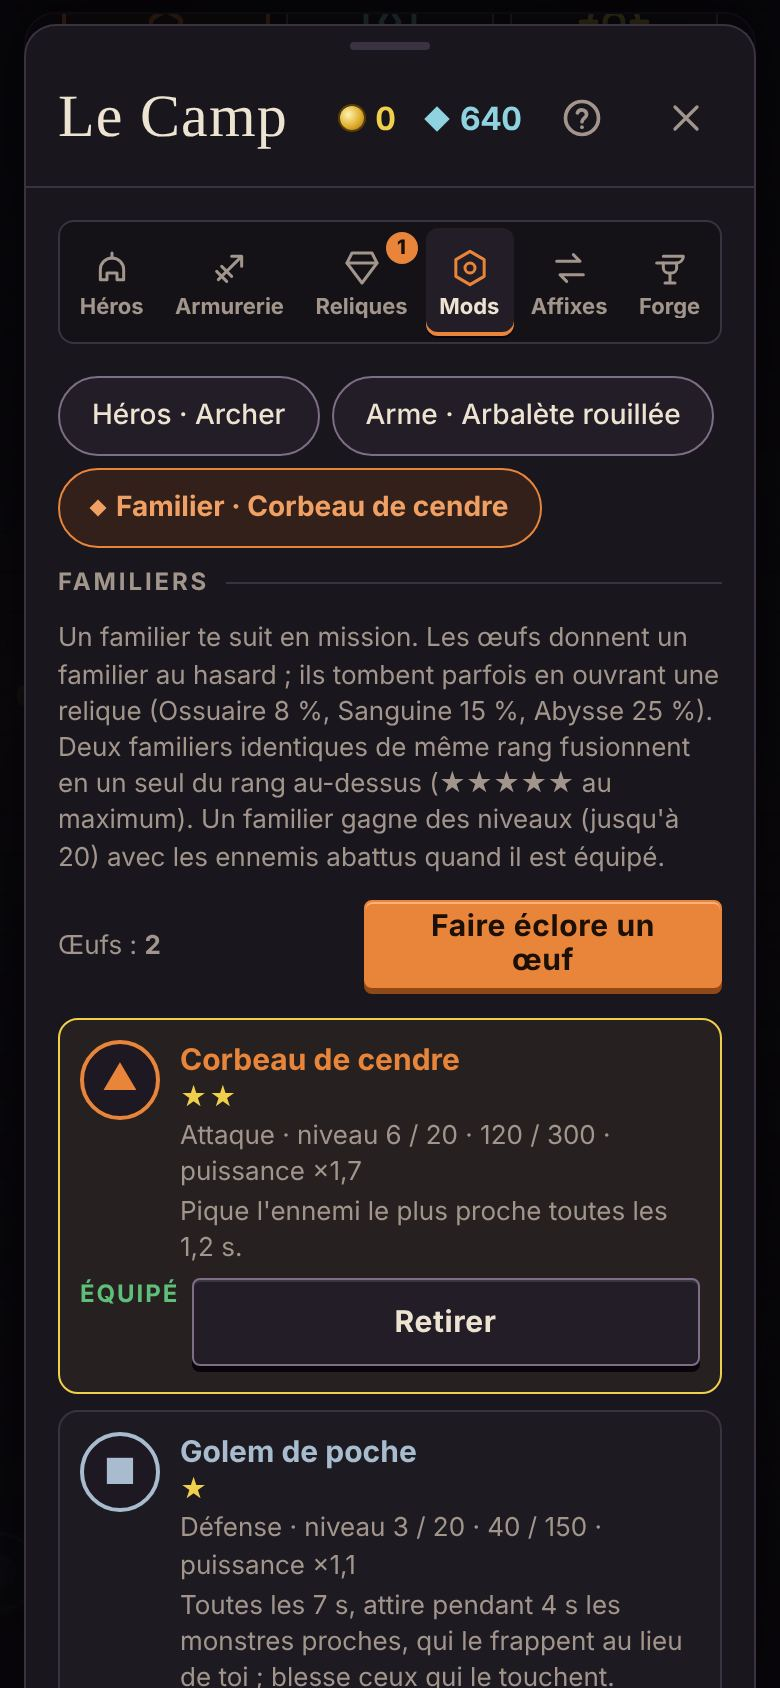
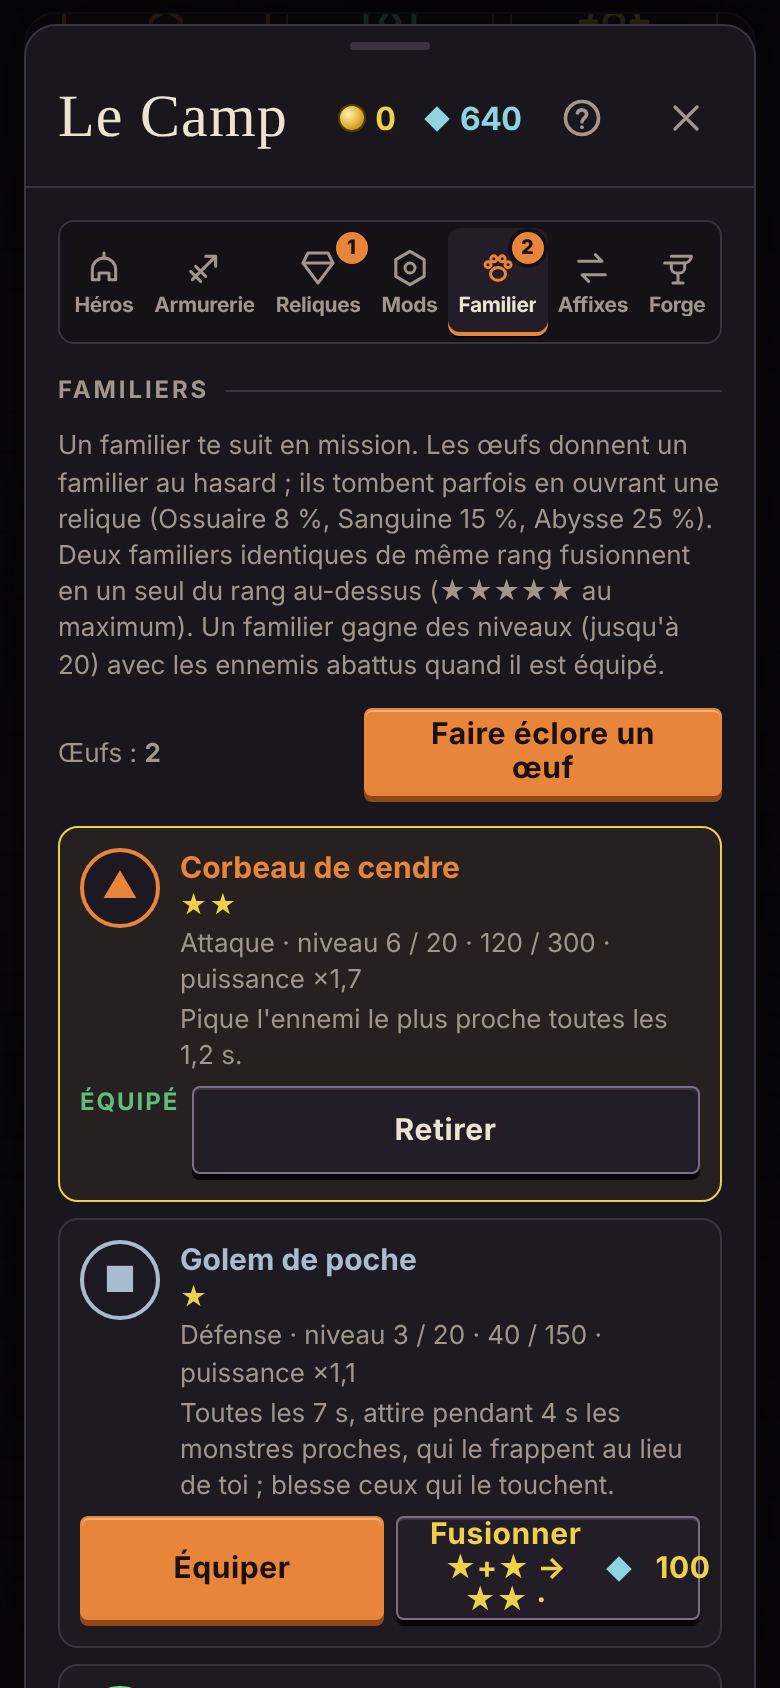
v77 : onglet Familier dédié au Camp

diff --git a/aide/index.html b/aide/index.html
@@ -334,7 +334,7 @@ details.more .tbl{margin:0 14px 14px}
 <section id="camp-equip"><div class="sec">
   <div class="txt">
     <h2><small>Camp · onglet 1</small>Héros et coffre</h2>
-    <p>Le Camp regroupe toute la progression permanente en six onglets. Une pastille orange sur un onglet signale qu'il y a quelque chose à faire. Le bouton <b>?</b> en haut du Camp ouvre ce guide à la bonne section.</p>
+    <p>Le Camp regroupe toute la progression permanente en sept onglets. Une pastille orange sur un onglet signale qu'il y a quelque chose à faire. Le bouton <b>?</b> en haut du Camp ouvre ce guide à la bonne section.</p>
     <p>L'onglet <b>Héros</b> montre tes 5 emplacements, tes statistiques et ton <b>coffre</b> (filtrable par type, triable par rareté, amélioration, niveau ou date). Touche un objet pour voir sa fiche et le comparer.</p>
     <ul>
       <li><b>Équiper le meilleur</b> remplit chaque emplacement avec l'objet le plus fort du coffre.</li>
@@ -401,7 +401,7 @@ details.more .tbl{margin:0 14px 14px}
       <li>Au Camp, équipe une ou plusieurs reliques, dans l'ordre d'ouverture voulu. Pour aller vite, choisis un type au-dessus de ta collection (Cendre, Ossuaire, Sanguine, Abysse, Givre ou Forgées) puis touche <b>Tout équiper</b> : toutes celles de ce type rejoignent la file. <b>Retirer</b> les enlève de la file.</li>
       <li>En mission, une partie des ennemis sont <b>corrompus</b> (halo doré) et lâchent un réactif.</li>
       <li><b>10 réactifs</b> ouvrent la relique en cours, puis on passe à la suivante.</li>
-      <li>Réussis la mission : chaque relique ouverte donne sa récompense et 25 essence. En cas d'échec, rien n'est consommé.</li>
+      <li>Réussis la mission : chaque relique ouverte donne sa récompense et 25 essence, et parfois un <a href="#familiers">œuf de familier</a> en plus (Ossuaire 8 %, Sanguine 15 %, Abysse 25 %). En cas d'échec, rien n'est consommé.</li>
     </ol>
     <h3>Intacte ou éclatante</h3>
     <p>Le <b>raffinage</b> (50 essence) rend une relique éclatante : les récompenses rares deviennent bien plus probables.</p>
@@ -436,7 +436,7 @@ details.more .tbl{margin:0 14px 14px}
 <section id="camp-mods"><div class="sec">
   <div class="txt">
     <h2><small>Camp · onglet 4</small>Mods</h2>
-    <p>Les mods sont des cartes de bonus permanentes, trouvées sur les monstres. Ils se placent dans trois builds : arme, héros et <a href="#familiers">familier</a>.</p>
+    <p>Les mods sont des cartes de bonus permanentes, trouvées sur les monstres. Ils se placent dans deux builds (les mods de familier ont leur propre onglet, <a href="#familiers">Familier</a>) :</p>
     <ul>
       <li><b>Build d'arme</b> : 4 cases, propre à chaque arme. Changer d'arme change ses mods.</li>
       <li><b>Build de héros</b> : 3 à 6 cases (les suivantes se débloquent avec des fragments) et une case d'<b>Aura</b>.</li>
@@ -467,7 +467,7 @@ details.more .tbl{margin:0 14px 14px}
 
 <section id="familiers"><div class="sec">
   <div class="txt">
-    <h2><small>Camp · Mods › Familier</small>Familiers</h2>
+    <h2><small>Camp · onglet 5</small>Familier</h2>
     <p>Un familier te suit en mission et agit seul. Tu en équipes un à la fois, pour tous tes héros. Ton premier œuf est offert.</p>
     <ul>
       <li><b>Œufs</b> : ouvrir une relique en mission peut en contenir un (Ossuaire 8 %, Sanguine 15 %, Abysse 25 %). L'éclosion donne un familier <b>au hasard</b>, au rang ★.</li>
@@ -482,7 +482,7 @@ details.more .tbl{margin:0 14px 14px}
       <tr><td><b style="color:#f0cf4a">Furet pilleur</b></td><td>Butin</td><td>Augmente la portée de ramassage et donne +5 % de chances d'objet.</td></tr>
     </tbody></table></div>
     <h3>Mods de familier</h3>
-    <p>L'onglet Mods a un troisième build, <b>Familier</b> : 3 cases (4 dès ★★★), une capacité de 10 au rang ★ et +2 par rang au-dessus, plus la moitié de son niveau. Ces mods tombent sur les monstres comme les autres. Les polarités et l'alignement marchent pareil, sans maîtrise à perdre. Un mod réservé à un familier précis reste grisé avec un autre.</p>
+    <p>Sous la collection, l'onglet a son propre build de mods : 3 cases (4 dès ★★★), une capacité de 10 au rang ★ et +2 par rang au-dessus, plus la moitié de son niveau. Ces mods tombent sur les monstres comme les autres. Les polarités et l'alignement marchent pareil, sans maîtrise à perdre. Un mod réservé à un familier précis reste grisé avec un autre.</p>
     <details class="more"><summary>Les 14 mods de familier</summary><div class="tbl"><table><thead><tr><th>Mod</th><th>Familier</th><th>Effet</th><th>Rangs</th></tr></thead><tbody><tr><td><b>Crocs</b></td><td>Tous</td><td>+15 % de dégâts du familier par rang</td><td class="n">5</td></tr><tr><td><b>Vivacité</b></td><td>Tous</td><td>+10 % de vitesse d'action par rang</td><td class="n">5</td></tr><tr><td><b>Carapace</b></td><td>Tous</td><td>+15 % d'efficacité défensive (golem : durée d'attirance)</td><td class="n">3</td></tr><tr><td><b>Lien</b></td><td>Tous</td><td>+12 % de portée et de vitesse de déplacement</td><td class="n">3</td></tr><tr><td><b>Bec acéré</b></td><td>Corbeau</td><td>+8 % de chances de critique par rang</td><td class="n">3</td></tr><tr><td><b>Nuée</b></td><td>Corbeau</td><td>Frappe 1 cible de plus</td><td class="n">1</td></tr><tr><td><b>Lumière apaisante</b></td><td>Feu follet</td><td>+20 % de soin par rang</td><td class="n">5</td></tr><tr><td><b>Purification</b></td><td>Feu follet</td><td>Retire poison, brûlure et gelure toutes les 6 s</td><td class="n">1</td></tr><tr><td><b>Provocation</b></td><td>Golem</td><td>+20 % de rayon d'attirance par rang</td><td class="n">3</td></tr><tr><td><b>Épines</b></td><td>Golem</td><td>+25 % de dégâts renvoyés par rang</td><td class="n">3</td></tr><tr><td><b>Flair du furet</b></td><td>Furet</td><td>+3 % de chances d'objet par rang</td><td class="n">3</td></tr><tr><td><b>Poches profondes</b></td><td>Furet</td><td>Va chercher les objets, mods et reliques au sol</td><td class="n">1</td></tr><tr><td><b>Partage de vie</b></td><td>Tous</td><td>Les coups du familier te rendent 2 % de leurs dégâts par rang</td><td class="n">3</td></tr><tr><td><b>Écho élémentaire</b></td><td>Tous</td><td>Les coups du familier appliquent la brûlure et le ralentissement de ton arme</td><td class="n">1</td></tr></tbody></table></div></details>
     <p>En coop, chacun voit les familiers des autres. Un golem attire aussi les monstres qui visaient un partenaire.</p>
   </div>
@@ -494,7 +494,7 @@ details.more .tbl{margin:0 14px 14px}
 
 <section id="camp-affix"><div class="sec">
   <div class="txt">
-    <h2><small>Camp · onglet 5</small>Affixes</h2>
+    <h2><small>Camp · onglet 6</small>Affixes</h2>
     <p>Cet onglet sert à déplacer les meilleures propriétés d'un objet à l'autre.</p>
     <h3>Transfert</h3>
     <ol>
@@ -521,7 +521,7 @@ details.more .tbl{margin:0 14px 14px}
 
 <section id="camp-forge"><div class="sec">
   <div class="txt">
-    <h2><small>Camp · onglet 6</small>Forge et prestige</h2>
+    <h2><small>Camp · onglet 7</small>Forge et prestige</h2>
     <p>La Forge vend des améliorations permanentes avec l'or. Chaque niveau coûte 1,7 fois le précédent.</p>
     <div class="tbl"><table>
       <thead><tr><th>Amélioration</th><th>Effet par niveau</th><th>Niveaux</th></tr></thead>
@@ -639,7 +639,7 @@ details.more .tbl{margin:0 14px 14px}
 
 </main>
 
-<footer class="wrap">Crypte des Cendres · guide à jour de la version 75 du jeu. <a href="../index.html">Retour au jeu</a></footer>
+<footer class="wrap">Crypte des Cendres · guide à jour de la version 77 du jeu. <a href="../index.html">Retour au jeu</a></footer>
 
 <dialog id="zoom" aria-label="Capture agrandie"><button type="button" id="zoomX" aria-label="Fermer">×</button><img id="zoomImg" alt=""></dialog>
 

diff --git a/index.html b/index.html
@@ -155,7 +155,7 @@
     <div class="cx-sheet__grip"></div>
     <header class="cx-sheet__head"><h2 class="cx-sheet__title">Le Camp</h2><div class="cx-sheet__aside"><span class="purse" id="campGold"></span><a class="cx-icon-btn cx-icon-btn--ghost" id="campHelp" href="aide/index.html#camp-equip" target="_blank" rel="noopener" aria-label="Aide sur cet onglet"><svg viewBox="0 0 24 24" style="fill:none;stroke:currentColor;stroke-width:2;stroke-linecap:round;stroke-linejoin:round"><circle cx="12" cy="12" r="9"/><path d="M9.5 9.2a2.6 2.6 0 0 1 5 .9c0 1.7-2.5 2.2-2.5 3.9"/><path d="M12 17h.01"/></svg></a><button class="cx-icon-btn cx-icon-btn--ghost" id="closeCamp" aria-label="Fermer le Camp"><svg viewBox="0 0 24 24"><path d="M6 6l12 12M18 6 6 18"/></svg></button></div></header>
     <div class="cx-sheet__body">
-      <div class="cx-tabs cx-tabs--icons" role="tablist" aria-label="Le Camp"><button class="tab cx-tab" role="tab" data-tab="equip" aria-selected="false"><svg viewBox="0 0 24 24"><path d="M5 13a7 7 0 0 1 14 0v6h-4v-4H9v4H5z"/><path d="M12 6V3"/></svg><span>Héros</span></button><button class="tab cx-tab" role="tab" data-tab="arsenal" aria-selected="false"><svg viewBox="0 0 24 24"><path d="M5 19 19 5M13 5h6v6M7 11l6 6M4 14l6 6"/></svg><span>Armurerie</span></button><button class="tab cx-tab" role="tab" data-tab="relics" aria-selected="false"><svg viewBox="0 0 24 24"><path d="M6 3h12l3 6-9 12L3 9z"/><path d="M3 9h18"/></svg><span>Reliques</span></button><button class="tab cx-tab" role="tab" data-tab="mods" aria-selected="false"><svg viewBox="0 0 24 24"><path d="M12 2l8.5 5v10L12 22l-8.5-5V7z"/><circle cx="12" cy="12" r="3"/></svg><span>Mods</span></button><button class="tab cx-tab" role="tab" data-tab="affix" aria-selected="false"><svg viewBox="0 0 24 24"><path d="M4 8h14l-4-4M20 16H6l4 4"/></svg><span>Affixes</span></button><button class="tab cx-tab" role="tab" data-tab="forge" aria-selected="false"><svg viewBox="0 0 24 24"><path d="M4 9h12a4 4 0 0 0 4-4H8"/><path d="M8 9v3a3 3 0 0 0 3 3h2a3 3 0 0 0 3-3V9M9 21h6M12 15v6"/></svg><span>Forge</span></button></div>
+      <div class="cx-tabs cx-tabs--icons" role="tablist" aria-label="Le Camp"><button class="tab cx-tab" role="tab" data-tab="equip" aria-selected="false"><svg viewBox="0 0 24 24"><path d="M5 13a7 7 0 0 1 14 0v6h-4v-4H9v4H5z"/><path d="M12 6V3"/></svg><span>Héros</span></button><button class="tab cx-tab" role="tab" data-tab="arsenal" aria-selected="false"><svg viewBox="0 0 24 24"><path d="M5 19 19 5M13 5h6v6M7 11l6 6M4 14l6 6"/></svg><span>Armurerie</span></button><button class="tab cx-tab" role="tab" data-tab="relics" aria-selected="false"><svg viewBox="0 0 24 24"><path d="M6 3h12l3 6-9 12L3 9z"/><path d="M3 9h18"/></svg><span>Reliques</span></button><button class="tab cx-tab" role="tab" data-tab="mods" aria-selected="false"><svg viewBox="0 0 24 24"><path d="M12 2l8.5 5v10L12 22l-8.5-5V7z"/><circle cx="12" cy="12" r="3"/></svg><span>Mods</span></button><button class="tab cx-tab" role="tab" data-tab="pets" aria-selected="false"><svg viewBox="0 0 24 24"><ellipse cx="12" cy="15.5" rx="4.5" ry="3.8"/><circle cx="6" cy="10" r="1.8"/><circle cx="9.5" cy="6.5" r="1.8"/><circle cx="14.5" cy="6.5" r="1.8"/><circle cx="18" cy="10" r="1.8"/></svg><span>Familier</span></button><button class="tab cx-tab" role="tab" data-tab="affix" aria-selected="false"><svg viewBox="0 0 24 24"><path d="M4 8h14l-4-4M20 16H6l4 4"/></svg><span>Affixes</span></button><button class="tab cx-tab" role="tab" data-tab="forge" aria-selected="false"><svg viewBox="0 0 24 24"><path d="M4 9h12a4 4 0 0 0 4-4H8"/><path d="M8 9v3a3 3 0 0 0 3 3h2a3 3 0 0 0 3-3V9M9 21h6M12 15v6"/></svg><span>Forge</span></button></div>
       <div class="col" id="campBody"></div>
     </div>
     <footer class="cx-sheet__foot" id="campFoot" hidden></footer>

diff --git a/js/ui.js b/js/ui.js
@@ -190,8 +190,8 @@ function renderMods(rootId){
     const id=b.load[i],p=b.pol[i];return `<div class="mslot${modSF===i?' fsel':''}"><button class="sp" data-act="slotf" data-i="${i}" aria-pressed="${modSF===i}" aria-label="Filtrer les mods pour la case ${i+1} (${p?POL[p].n:'neutre'})" style="color:${p?POL[p].c:'var(--muted)'}">${p?POL[p].s+' '+POL[p].n:'Neutre'}</button>${id?modCard(id,(modSel===id?' sel':'')+(act.includes(id)?'':' off'),i,b):'<div class="mod empty">Libre</div>'}</div>`};
   const buyBox=modTab==='h'&&b.slots<HSLOT_MAX&&inCamp?(()=>{const c=HSLOT_COST[b.slots-3],have=fragTotal();
     return `<div class="card"><p style="margin:0;font-size:14px">Débloquer la case ${b.slots+1} du héros : <b>${c} fragments de schéma</b>, pris parmi ceux que tu as en plus grand nombre. Tu en as ${have}.</p><div class="actions"><button class="btn buy" data-act="slotbuy" ${have<c?'disabled':''}>Débloquer · ${c} fragments</button></div></div>`})():'';
-  root.innerHTML=`<div class="alrow"><button class="chip" data-act="mtab" data-t="h" aria-pressed="${modTab==='h'}">Héros · ${CLS[heroCls].n}</button><button class="chip" data-act="mtab" data-t="w" aria-pressed="${modTab==='w'}">Arme · ${wdef(curWid()).n}</button><button class="chip" data-act="mtab" data-t="p" aria-pressed="${modTab==='p'}">Familier${petEq()?' · '+PETS[petEq().t].n:''}</button></div>
-    ${modTab==='p'&&inCamp?petPanel():''}
+  const petTab=inCamp&&campTab==='pets';
+  root.innerHTML=`${petTab?petPanel()+'<h3 class="cx-section__label" style="margin:4px 0 0">Mods du familier</h3>':`<div class="alrow"><button class="chip" data-act="mtab" data-t="h" aria-pressed="${modTab==='h'}">Héros · ${CLS[heroCls].n}</button><button class="chip" data-act="mtab" data-t="w" aria-pressed="${modTab==='w'}">Arme · ${wdef(curWid()).n}</button>${inCamp?'':`<button class="chip" data-act="mtab" data-t="p" aria-pressed="${modTab==='p'}">Familier${petEq()?' · '+PETS[petEq().t].n:''}</button>`}</div>`}
     <div class="modhead"><span>Capacité <b class="${u>cap?'over':''}">${u} / ${cap}</b></span><span>Essence <b>${meta.essence}</b></span>
       ${b.kind==='p'?`<span>Bonus de niveau <b>+${mt.r}</b></span>`:`<span>Maîtrise ${b.kind==='w'?'arme':'héros'} <b>${mt.r} / 10</b>${mt.r<10?` · ${mt.xp} / ${mastNeed(mt.r)}`:''}</span>`}</div>
     ${u>cap?'<p class="empty" style="font-size:13px;color:var(--blood)">Capacité dépassée : les mods en trop sont inactifs (grisés). Regagne de la maîtrise en mission (le familier : des niveaux) ou retire un mod.</p>':''}
@@ -279,7 +279,7 @@ function grantRelic(id,rad){
 }
 function resolveRelic(){
   const out=[];
-  for(const r of G.opened){const g=grantRelic(r.id,r.rad);if(!g)continue;meta.essence+=25;out.push(`Relique ${relicName(r.id)}${r.rad?' éclatante':''} : ${g.html}. +25 essence.`+(eggFromRelic(r.id)?' <b style="color:#f0cf4a">Un œuf de familier</b> était caché dedans : fais-le éclore au Camp, onglet Mods › Familier.':''))}
+  for(const r of G.opened){const g=grantRelic(r.id,r.rad);if(!g)continue;meta.essence+=25;out.push(`Relique ${relicName(r.id)}${r.rad?' éclatante':''} : ${g.html}. +25 essence.`+(eggFromRelic(r.id)?' <b style="color:#f0cf4a">Un œuf de familier</b> était caché dedans : fais-le éclore au Camp, onglet Familier.':''))}
   const left=G.relQ.length-G.opened.length;
   if(left>0)out.push(`${left} relique${left>1?'s':''} non ouverte${left>1?'s':''} faute de réactifs : ${left>1?'elles restent':'elle reste'} équipée${left>1?'s':''}, sans être consommée${left>1?'s':''}.`);
   return out.join('<br>');

diff --git a/js/camp.js b/js/camp.js
@@ -359,15 +359,18 @@ function tabBadges(){
   const best=Object.keys(bestPlan(curEq(),meta.stash.slice(0,300))).length;
   const B={equip:best?{n:best,t:`${best} amélioration${best>1?'s':''} d'équipement`}:null,arsenal:craft?{n:craft,t:`${craft} objet${craft>1?'s':''} à fabriquer`}:null,
     relics:relFree&&!meta.relicQ.length?{n:relFree,t:`${relFree} relique${relFree>1?'s':''} non équipée${relFree>1?'s':''}`}:null,
+    pets:meta.eggs>0?{n:meta.eggs,t:`${meta.eggs} œuf${meta.eggs>1?'s':''} à faire éclore`}:null,
+    pets:meta.eggs>0?{n:meta.eggs,t:`${meta.eggs} œuf${meta.eggs>1?'s':''} à faire éclore`}:null,
     forge:(ups+pr+prBuy)?{n:pr?pr:ups+prBuy,t:pr?`${pr} point${pr>1?'s':''} de prestige à placer`:`${ups+prBuy} amélioration${ups+prBuy>1?'s':''} achetable${ups+prBuy>1?'s':''}`}:null};
   document.querySelectorAll('.tab').forEach(t=>{let el=t.querySelector('.tbadge');const b=B[t.dataset.tab];
     if(!b){if(el)el.remove();return}if(!el){el=document.createElement('span');el.className='tbadge';t.appendChild(el)}el.textContent=b.n>9?'9+':b.n;el.title=b.t;el.setAttribute('aria-label',b.t)})}
-function drawCamp(){{const h=document.getElementById('campHelp');if(h)h.href='aide/index.html#camp-'+campTab}
+function drawCamp(){{const h=document.getElementById('campHelp');if(h)h.href=campTab==='pets'?'aide/index.html#familiers':'aide/index.html#camp-'+campTab}
   $('campGold').innerHTML=`<span class="coin"></span>${meta.gold}<span class="e"><span class="essi"></span>${meta.essence}</span>`;
   document.querySelectorAll('.tab').forEach(t=>t.setAttribute('aria-selected',String(t.dataset.tab===campTab)));
   const body=$('campBody');
-  body.innerHTML=campTab==='affix'?campSeals()+campAffix():campTab==='equip'?campEquip():campTab==='arsenal'?campArsenal2():campTab==='relics'?campRelics():campTab==='mods'?'<div id="modsCamp" class="col"></div>':campForge();
-  if(campTab==='mods')renderMods('modsCamp');
+  body.innerHTML=campTab==='affix'?campSeals()+campAffix():campTab==='equip'?campEquip():campTab==='arsenal'?campArsenal2():campTab==='relics'?campRelics():campTab==='mods'||campTab==='pets'?'<div id="modsCamp" class="col"></div>':campForge();
+  if(campTab==='pets'){if(modTab!=='p'){modTab='p';modSel=null;modSF=null;modPF='all';alSel=null}renderMods('modsCamp')}
+  else if(campTab==='mods'){if(modTab==='p'){modTab='h';modSel=null;modSF=null;modPF='all';alSel=null}renderMods('modsCamp')}
   tabBadges();
   const ft=campTab==='affix'?affixFoot():'';$('campFoot').innerHTML=ft;$('campFoot').hidden=!ft;$('campFoot').className='cx-sheet__foot'+(ft.includes('cx-hint')?' stack':'');
 }

diff --git a/js/pet.js b/js/pet.js
@@ -13,7 +13,7 @@ if(!meta.petGift){meta.eggs+=1;meta.petGift=1}
 let petUid=1+Math.max(0,...meta.pets.map(p=>p.uid|0));
 const petEq=()=>meta.pets.find(p=>p.uid===meta.petEq)||null;
 
-/* ---------- Mods de familier (troisième build de l'onglet Mods) ---------- */
+/* ---------- Mods de familier (build de l'onglet Familier du Camp) ---------- */
 Object.assign(MODS,{
   pcrocs:{type:'p',n:'Crocs',r:0,max:5,drain:3,k:'pDmg',v:15,t:v=>`+${v} % de dégâts du familier`},
   pviv:{type:'p',n:'Vivacité',r:0,max:5,drain:3,k:'pAps',v:10,t:v=>`+${v} % de vitesse d'action du familier`},
@@ -85,7 +85,7 @@ function petDrawPx(f,Q,alpha){if(!Q)return;const c=parseInt(PETS[Q.t].c.slice(1)
   if(Q.t==='corbeau')f.drawPolygon([x-11*k,y,x,y-(6+b)*k,x+11*k,y,x,y+5*k]);else if(Q.t==='golem')f.drawRect(x-8*k,y-8*k,16*k,16*k);else if(Q.t==='furet')f.drawEllipse(x,y,11*k,6*k);else f.drawCircle(x,y,(7+Math.sin(G.t*6))*k);
   f.endFill();f.lineStyle(0);f.beginFill(c,alpha);f.drawCircle(x+2*k,y-k,2*k);f.endFill()}
 
-/* ---------- Camp › Mods › Familier : collection, œufs, fusion ---------- */
+/* ---------- Camp › Familier : collection, œufs, fusion ---------- */
 let petMsg='';
 function petPanel(){const eq=petEq();
   const groups={};for(const p of meta.pets){const k=p.t+'|'+p.rk;(groups[k]||(groups[k]=[])).push(p)}

diff --git a/sw.js b/sw.js
@@ -1,5 +1,5 @@
 // Crypte des Cendres — cache hors ligne. Change VERSION à chaque mise à jour du jeu.
-const VERSION = 'crypte-v75';
+const VERSION = 'crypte-v77';
 const CORE = ['./', './index.html', './manifest.webmanifest', './css/game.css', './js/data.js', './js/game.js', './js/render.js', './js/ui.js', './js/camp.js', './js/seal.js', './js/pet.js', './js/settings.js', './js/audio.js', './js/net.js', './js/main.js', './js/update.js', './icons/icon-192.png', './icons/icon-512.png', './icons/maskable-512.png', './icons/apple-touch-icon.png'];
 const EXTERNAL = ['https://cdn.jsdelivr.net/npm/pixi.js@7.4.2/dist/pixi.min.js'];
 

diff --git a/css/game.css b/css/game.css
@@ -842,3 +842,7 @@ li.sealp{color:#ffb3ea}
 .petic{width:36px;height:36px;border-radius:50%;display:grid;place-items:center;font-size:18px;color:var(--pc);border:2px solid var(--pc);background:#1d1822}
 .petinfo{display:flex;flex-direction:column;gap:2px;min-width:0}
 .pstar{color:#f0cf4a;letter-spacing:1px;font-size:13px}
+.cx-tabs--icons{gap:0;padding-left:2px;padding-right:2px}
+.cx-tabs--icons .cx-tab{flex:1 1 auto;font-size:10.5px;letter-spacing:-.2px;padding:6px 0}
+.cx-tabs--icons .cx-tab span{text-overflow:clip}
+@media (max-width:380px){.cx-tabs--icons .cx-tab{font-size:9.5px}}
